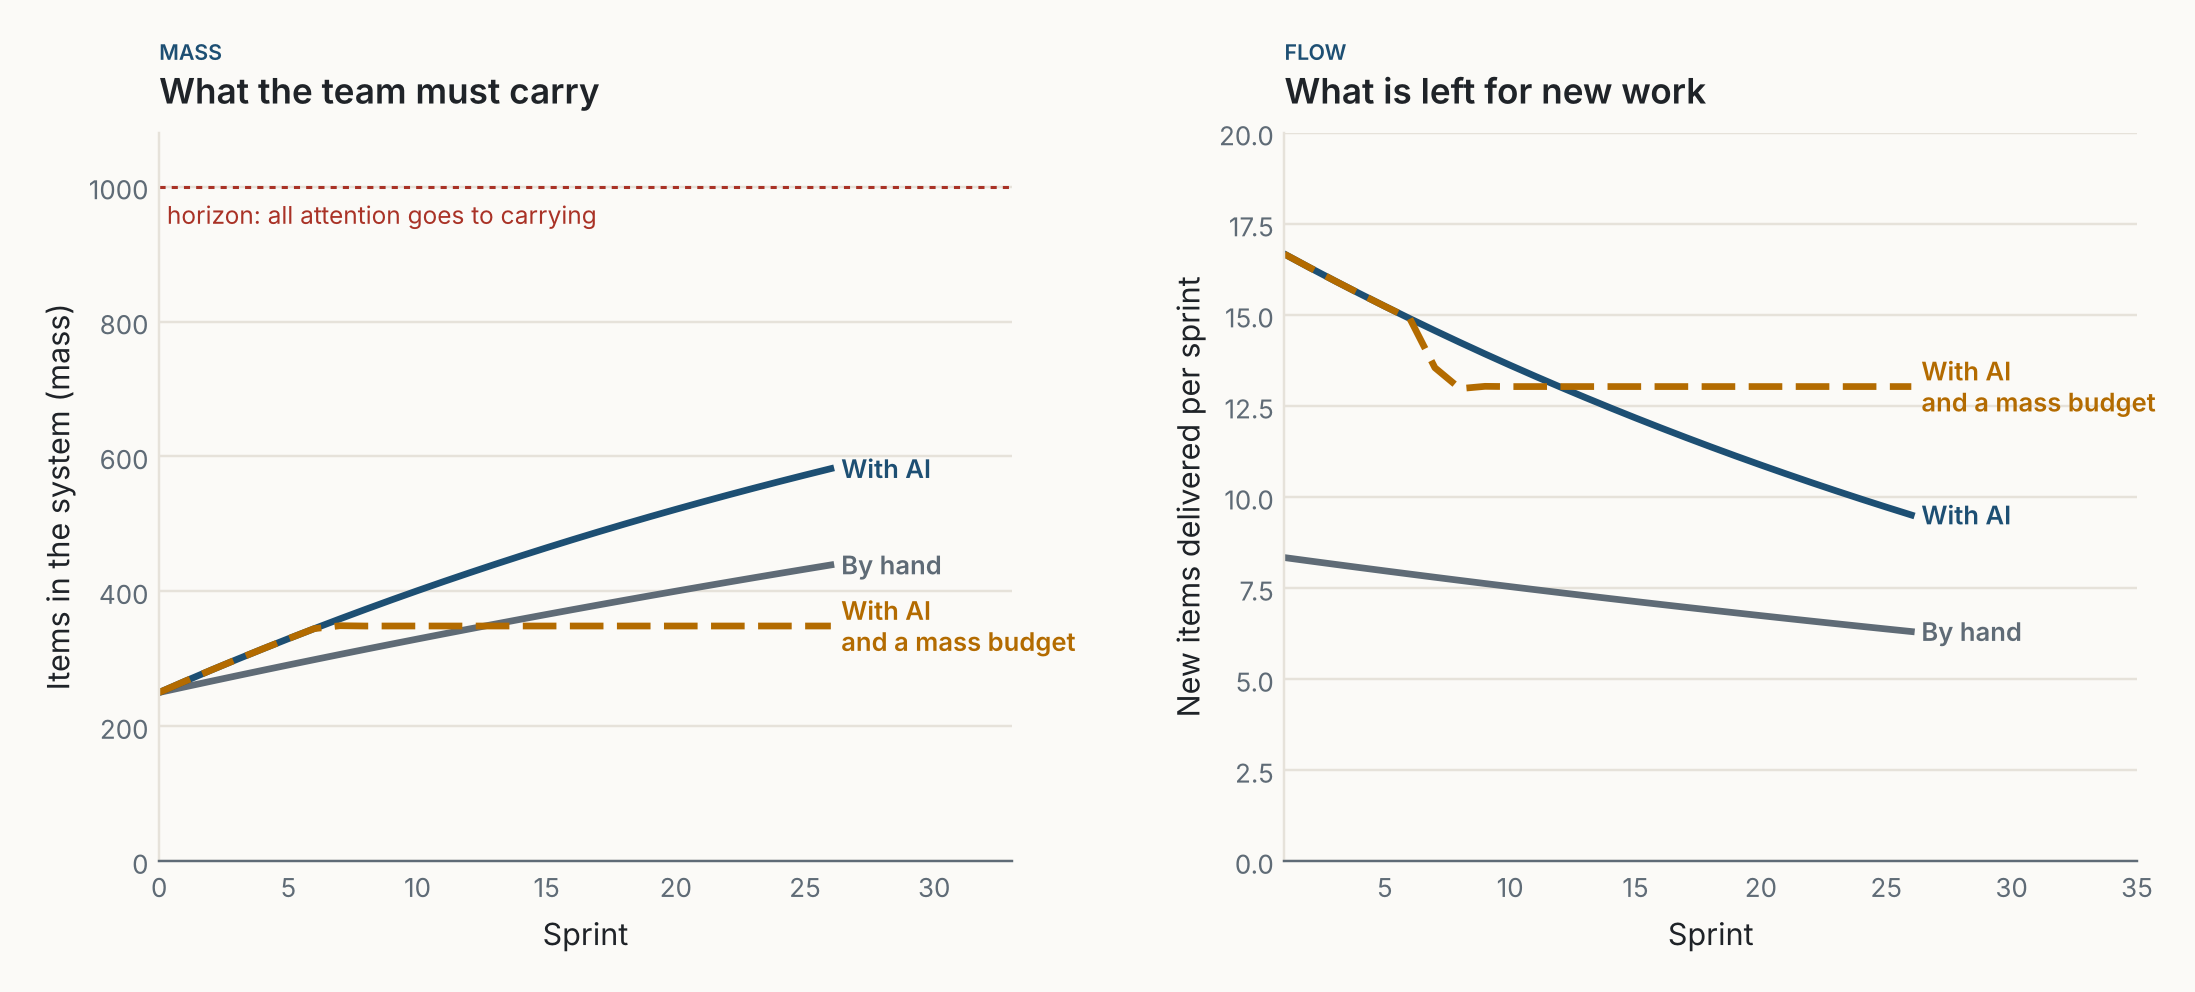
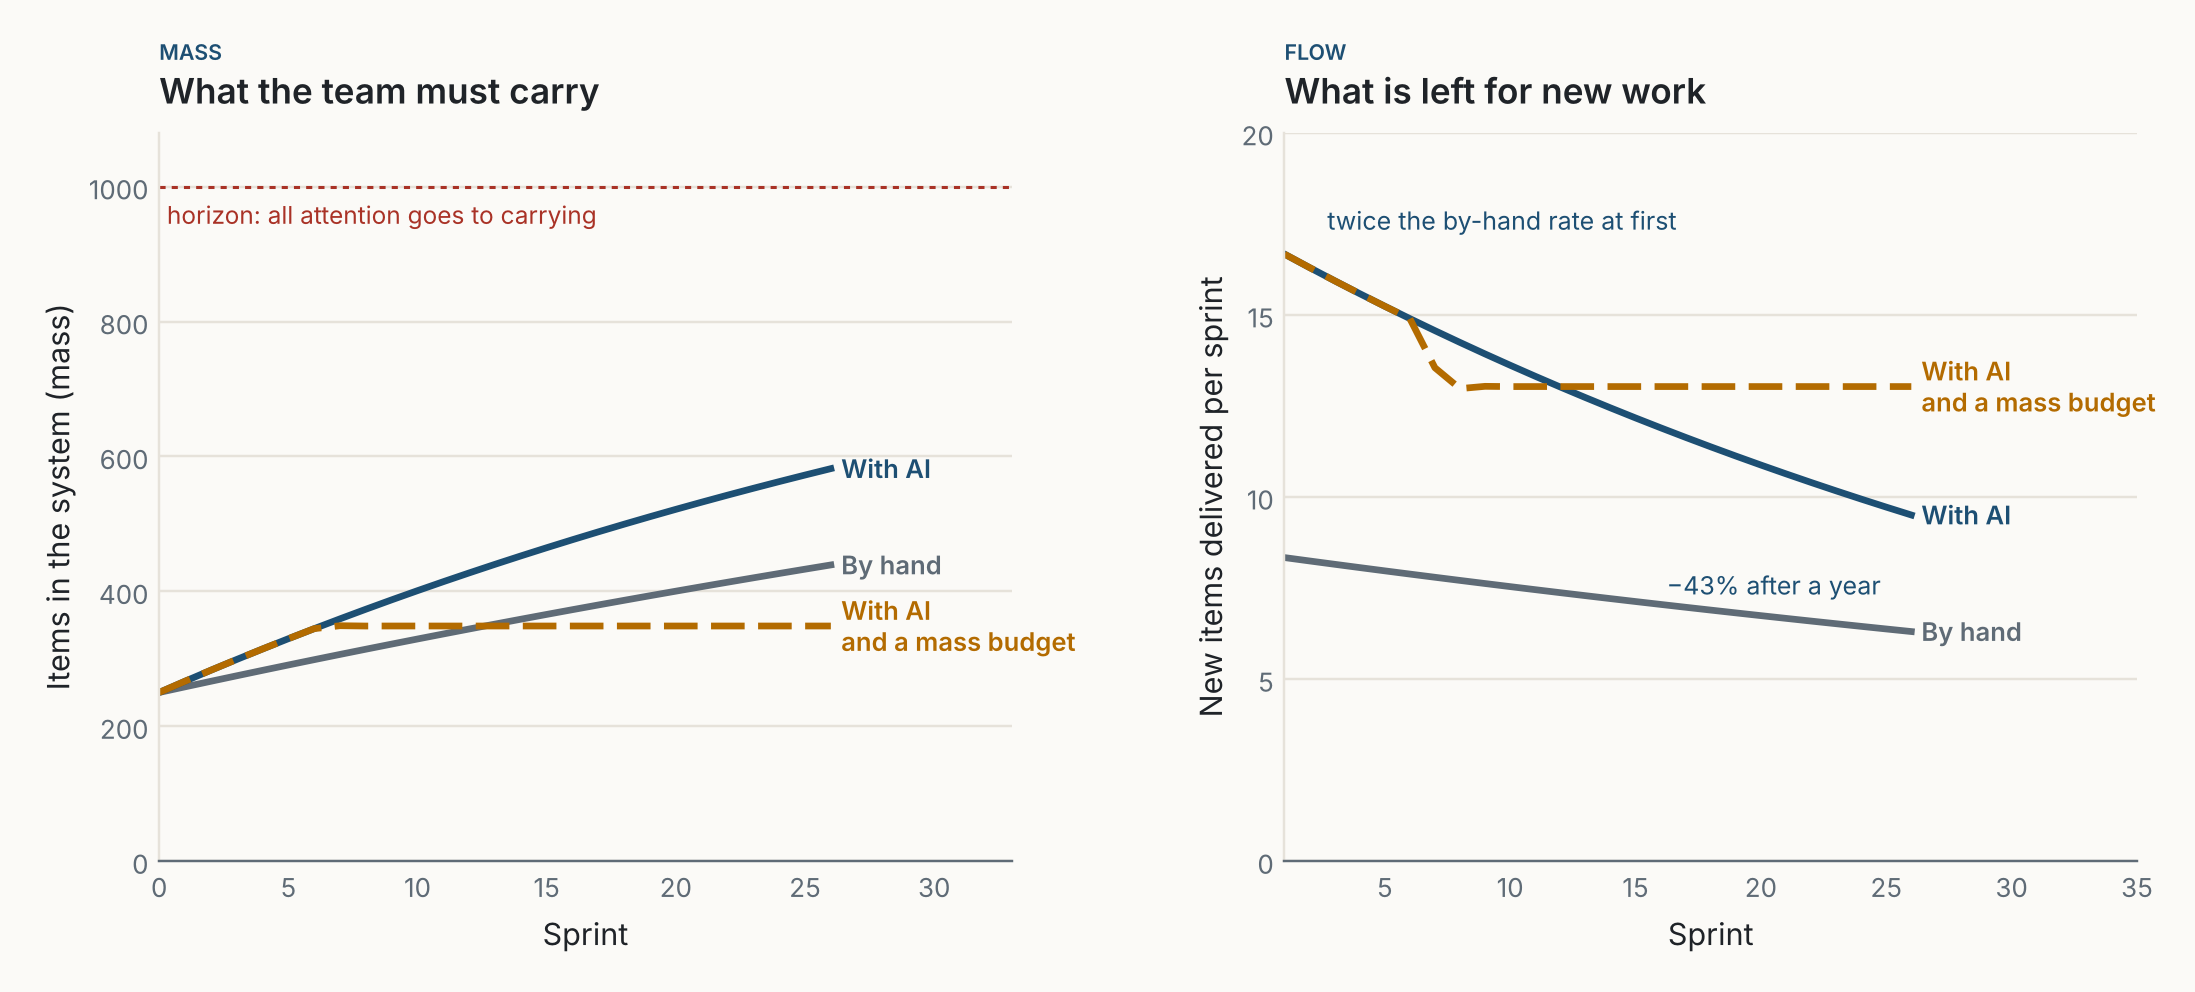
Work Has Mass: tighter prose, gravity-well figure, clearer annotations
Claude-Session: https://claude.ai/code/session_01VFrwEx2LWb3gaVFpKJPBKe

diff --git a/posts/2026-10-24-work-has-mass/figs.py b/posts/2026-10-24-work-has-mass/figs.py
@@ -152,47 +152,46 @@ def simulate(p, budget=None, delete_cost=0.5):
 
 
 def fig_spacetime():
-    """Items as masses that curve the grid in which work moves."""
-    fig, axes = plt.subplots(1, 2, figsize=(11.6, 5.0))
-    rng = np.random.default_rng(7)
-    few = [(0.0, 0.0, 1.0), (-1.7, 1.2, 0.35), (1.6, -1.1, 0.4), (1.5, 1.5, 0.25)]
-    many = few + [(x, y, m) for x, y, m in zip(rng.uniform(-2.4, 2.4, 34), rng.uniform(-2.4, 2.4, 34),
-                                                rng.uniform(0.08, 0.3, 34))]
-    many[0] = (0.0, 0.0, 1.6)
-    titles = [("CALIBRATED FOR", "A few items, a gentle curve"),
-              ("WITH AI", "Many more items, a deep well")]
-    for ax, masses, (eb, tt), pull in zip(axes, (few, many), titles, (0.32, 0.22)):
-        ax.set_xlim(-3, 3); ax.set_ylim(-3, 3); ax.set_aspect("equal"); ax.axis("off")
-        t = np.linspace(-3, 3, 400)
+    """Items as masses that sink the surface on which work moves: the classic embedding picture."""
+    from mpl_toolkits.mplot3d import Axes3D  # noqa: F401
+    rng = np.random.default_rng(3)
+    few = [(0.0, 0.0, 1.0), (-1.8, 1.3, 0.3), (1.7, -1.2, 0.35)]
+    extra = [(x, y, m) for x, y, m in zip(rng.uniform(-2.3, 2.3, 26), rng.uniform(-2.3, 2.3, 26),
+                                          rng.uniform(0.15, 0.4, 26))]
+    many = [(0.0, 0.0, 2.6)] + few[1:] + extra
+    g = np.linspace(-3, 3, 121)
+    X, Y = np.meshgrid(g, g)
 
-        def warp(X, Y):
-            dX, dY = np.zeros_like(X), np.zeros_like(Y)
-            for mx, my, m in masses:
-                rx, ry = X - mx, Y - my
-                r2 = rx ** 2 + ry ** 2 + 0.25
-                dX -= pull * m * rx / r2; dY -= pull * m * ry / r2
-            # never pull a point past the centre of its well, so the grid folds in but does not cross
-            return X + np.clip(dX, -0.9, 0.9), Y + np.clip(dY, -0.9, 0.9)
-        for g in np.linspace(-3, 3, 19):
-            for X, Y in ((t, np.full_like(t, g)), (np.full_like(t, g), t)):
-                wx, wy = warp(X, Y)
-                ax.plot(wx, wy, color="#b9c3cc", lw=0.7, zorder=1)
+    def depth(masses, x, y):
+        return -sum(m / np.sqrt((x - mx) ** 2 + (y - my) ** 2 + 0.35) for mx, my, m in masses)
+
+    fig = plt.figure(figsize=(11.6, 4.6))
+    zmin = depth(many, X, Y).min()
+    panels = [(few, "CALIBRATED FOR", "A light system: a shallow dip", NAVY),
+              (many, "WITH AI", "A heavy system: a deep well", WARM)]
+    for k, (masses, eb, tt, col) in enumerate(panels):
+        ax = fig.add_subplot(1, 2, k + 1, projection="3d", computed_zorder=False)
+        Z = depth(masses, X, Y)
+        ax.plot_wireframe(X, Y, Z, rstride=6, cstride=6, color="#9aa6b1", lw=0.55)
         for mx, my, m in masses:
-            heavy = m > 0.9
-            ax.add_patch(Circle((mx, my), 0.07 + 0.15 * np.sqrt(m), fc=NAVY if heavy else "white",
-                                ec=NAVY, lw=1.1, zorder=3))
-        # a new request crossing the system: dots one sprint apart
-        if masses is few:
-            path = np.array([(-2.8 + 5.4 * s, -2.2 + 0.9 * s + 0.35 * np.sin(np.pi * s)) for s in np.linspace(0, 1, 9)])
-        else:
-            s = np.linspace(0, 1, 9) ** 1.9 * 0.62
-            path = np.array([(-2.8 + 5.4 * u, -2.2 + 0.9 * u + 1.6 * np.sin(np.pi * u)) for u in s])
-        ax.plot(path[:, 0], path[:, 1], color=WARM, lw=1.6, ls=(0, (4, 3)), zorder=4)
-        ax.scatter(path[:, 0], path[:, 1], s=26, color=AMBER, edgecolor=WARM, lw=1, zorder=5)
-        ax.text(-2.9, 3.25, eb, fontsize=7, weight="semibold", color=NAVY if masses is few else WARM)
-        ax.text(-2.9, 3.05, tt, fontsize=11.5, weight="semibold", color=INK, va="top")
-    axes[0].text(2.85, -2.75, "a new request:\none dot per sprint", fontsize=8, color=WARM, ha="right")
-    axes[1].text(0.6, -2.85, "same nine sprints, a shorter and bent path", fontsize=8, color=WARM, ha="center")
+            ax.scatter([mx], [my], [depth(masses, mx, my) + 0.05], s=40 + 160 * m,
+                       color=NAVY if m > 0.9 else "white", edgecolor=NAVY, lw=1.1, depthshade=False)
+        # a request crossing the surface, one dot per sprint: the heavier the system, the less ground it covers
+        span = 5.4 if masses is few else 3.1
+        u = np.linspace(0, 1, 9) ** (1.0 if masses is few else 1.6)
+        px, py = -2.7 + span * u, -2.6 + span * 0.55 * u
+        ax.plot(px, py, depth(masses, px, py) + 0.08, color=WARM, lw=1.6, ls=(0, (4, 3)))
+        ax.scatter(px, py, depth(masses, px, py) + 0.08, s=22, color=AMBER, edgecolor=WARM, lw=1,
+                   depthshade=False)
+        ax.set_zlim(zmin * 1.02, 0.3)
+        ax.view_init(elev=24, azim=-60)
+        ax.set_axis_off()
+        ax.set_box_aspect((1, 1, 0.55))
+        ax.text2D(0.04, 0.98, eb, transform=ax.transAxes, fontsize=7, weight="semibold", color=col)
+        ax.text2D(0.04, 0.92, tt, transform=ax.transAxes, fontsize=11.5, weight="semibold", color=INK, va="top")
+    fig.text(0.5, 0.06, "Amber: one request, one dot per sprint. In the heavy system the same nine sprints "
+             "cover less ground, and the path sinks toward the well.", ha="center", fontsize=8.6, color=WARM)
+    fig.subplots_adjust(left=0, right=1, top=1, bottom=0.04, wspace=0)
     fig.savefig(OUT + "fig01.png"); plt.close(fig)
 
 
@@ -214,6 +213,12 @@ def fig_mass():
     a1.set_ylim(0, 1080); a1.set_xlim(0, SPRINTS + 7)
     a1.set_ylabel("Items in the system (mass)"); a1.set_xlabel("Sprint")
     a2.set_ylim(0, 20); a2.set_xlim(1, SPRINTS + 9)
+    a2.set_yticks([0, 5, 10, 15, 20])
+    n_ai = runs[1][1][1]
+    a2.annotate("twice the by-hand rate at first", (1, n_ai[0]), xytext=(14, 8), textcoords="offset points",
+                fontsize=8.2, color=NAVY)
+    a2.annotate(f"\u2212{1 - n_ai[-1] / n_ai[0]:.0%} after a year", (SPRINTS, n_ai[-1]), xytext=(-10, -26),
+                textcoords="offset points", fontsize=8.2, color=NAVY, ha="right")
     a2.set_ylabel("New items delivered per sprint"); a2.set_xlabel("Sprint")
     for lab, (m, n), col, ls in runs:
         a1.text(SPRINTS + 0.4, m[-1], lab.replace(" and a", "\nand a"), fontsize=8.4, color=col, weight="semibold", va="center")
@@ -350,6 +355,9 @@ def fig_ledger():
             v = run if v is None else v
             ax.bar(i, v - 250, bottom=250, width=0.62, color=NAVY, zorder=3)
             ax.text(i, v + 2, f"{v:.0f}", ha="center", va="bottom", fontsize=9, weight="semibold", color=INK)
+            if i:
+                ax.text(i, v + 9, f"net {v - rows[0][1]:+.0f}", ha="center", va="bottom", fontsize=9,
+                        weight="semibold", color=WARM)
             run = v
         else:
             col = WARM if kind == "add" else GREEN
